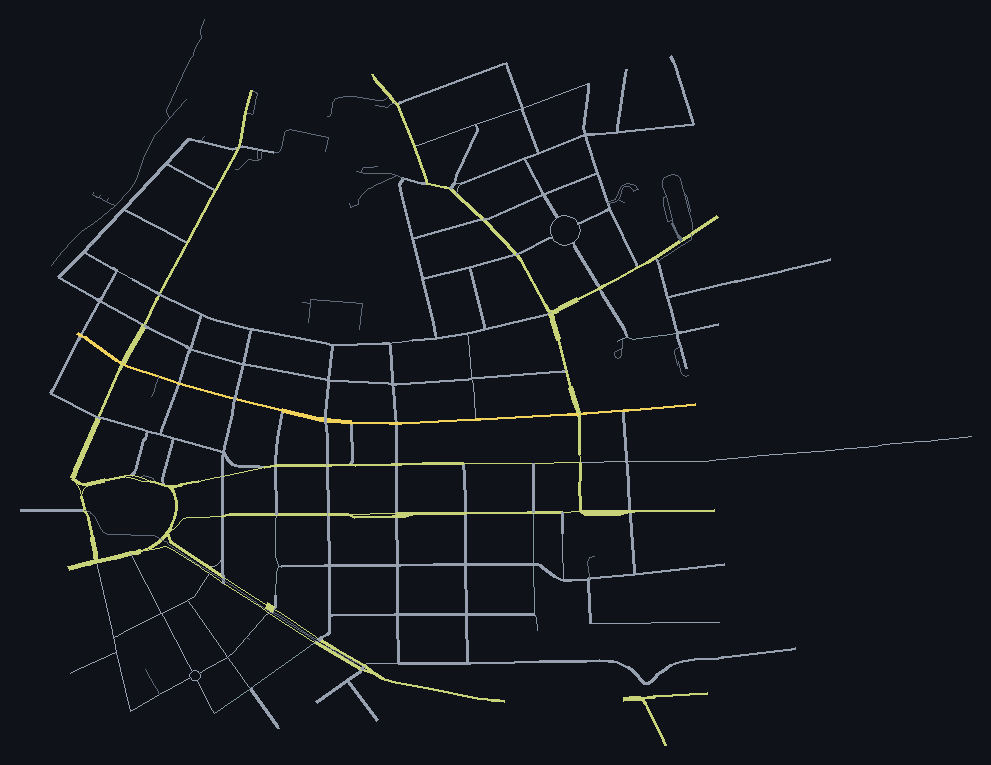
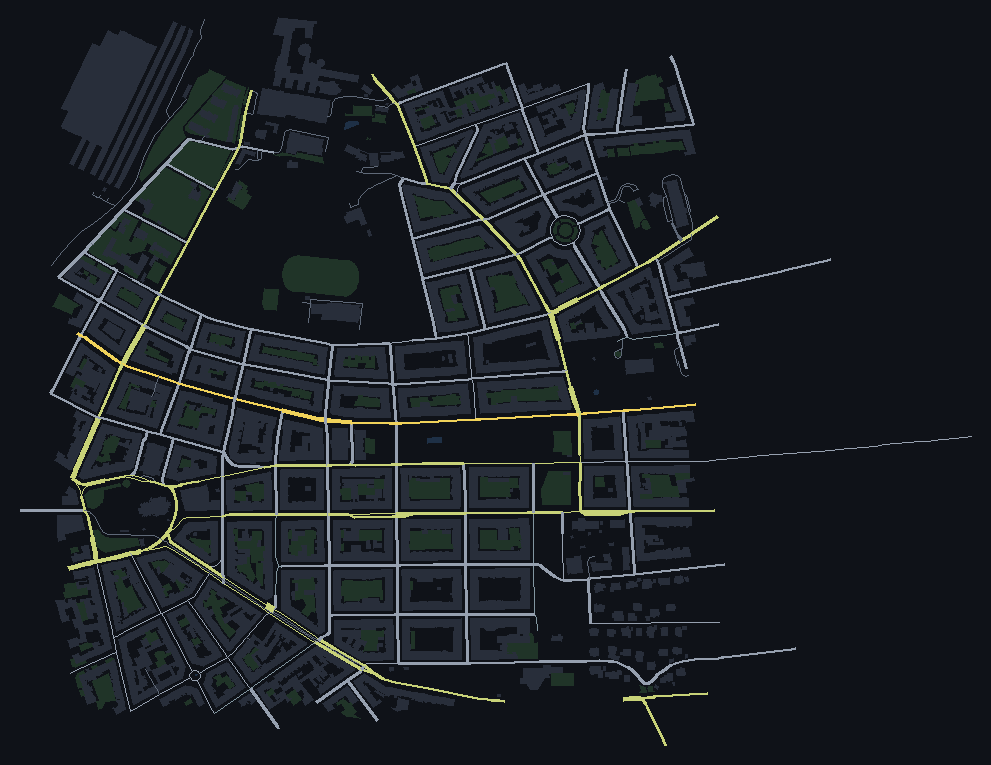
Schematic city backdrop: bake + render OSM buildings, greens, water
bake_city.py now fetches building footprints, parks/greens and water as closed ways,
simplifies and tiles them as area polygons (Vinohrady: 1621 buildings, 185 green,
4 water). The client loads + dedupes areas with a bbox and draws them behind the
roads (buildings #222734 w/ outline when zoomed, greens, water). Turns the abstract
road network into a recognisable real city (Vlad's spec item 5: 'схематичные здания').

Changed region(s): [[0.0605, 0.0, 0.7265, 0.932]]

diff --git a/app/static/drive/map/tiles.js b/app/static/drive/map/tiles.js
@@ -28,23 +28,33 @@ export async function loadMap(base) {
   const tiles = await Promise.all(
     meta.tiles.map((k) => fetch(`${base}/tiles/${k}.json`).then((r) => r.json()))
   );
-  const seen = new Set();
-  const edges = [], junctions = [];
+  const bbox = (pts) => {
+    let mnx = Infinity, mny = Infinity, mxx = -Infinity, mxy = -Infinity;
+    for (const p of pts) {
+      if (p[0] < mnx) mnx = p[0]; if (p[0] > mxx) mxx = p[0];
+      if (p[1] < mny) mny = p[1]; if (p[1] > mxy) mxy = p[1];
+    }
+    return [mnx, mny, mxx, mxy];
+  };
+
+  const seen = new Set(), seenA = new Set();
+  const edges = [], junctions = [], areas = [];
   for (const t of tiles) {
     for (const e of t.edges) {
       const sig = `${e.a}_${e.b}_${e.cls}_${e.geom.length}`;
       if (seen.has(sig)) continue;
       seen.add(sig);
-      // bounding box [minx,miny,maxx,maxy] for viewport culling (long sparse-vertex edges)
-      let mnx = Infinity, mny = Infinity, mxx = -Infinity, mxy = -Infinity;
-      for (const p of e.geom) {
-        if (p[0] < mnx) mnx = p[0]; if (p[0] > mxx) mxx = p[0];
-        if (p[1] < mny) mny = p[1]; if (p[1] > mxy) mxy = p[1];
-      }
-      e.bb = [mnx, mny, mxx, mxy];
+      e.bb = bbox(e.geom);   // [minx,miny,maxx,maxy] for viewport culling (long sparse-vertex edges)
       edges.push(e);
     }
     for (const j of t.junctions) junctions.push(j);
+    for (const a of t.areas || []) {     // schematic backdrop polygons (span tiles → dedupe)
+      const sig = `${a.kind}_${a.poly.length}_${a.poly[0][0]}_${a.poly[0][1]}`;
+      if (seenA.has(sig)) continue;
+      seenA.add(sig);
+      a.bb = bbox(a.poly);
+      areas.push(a);
+    }
   }
 
   // spatial grid: cell -> edge indices. Rasterize each SEGMENT into every cell it
@@ -96,5 +106,5 @@ export async function loadMap(base) {
     return false;
   }
 
-  return { meta, edges, junctions, nearestEdge, onSurface };
+  return { meta, edges, junctions, areas, nearestEdge, onSurface };
 }

diff --git a/app/static/drive/render/draw.js b/app/static/drive/render/draw.js
@@ -8,6 +8,9 @@ const CLASS_TINT = {
   motorway: "#48525f", trunk: "#444e5c", primary: "#3e4654",
   secondary: "#39414e", tertiary: "#343c48",
 };
+// schematic backdrop fills (drawn behind the roads)
+const AREA_FILL = { building: "#222734", green: "#1d2c22", water: "#1b2c41" };
+const AREA_STROKE = { building: "#2c3242", green: "#243a2c", water: "#234057" };
 
 function roundRect(ctx, x, y, w, h, r) {
   ctx.beginPath();
@@ -35,6 +38,9 @@ export function draw(ctx, view, map, car) {
 
   const R = view.visR();
   const vis = map.edges.filter((e) => view.boxVisible(e.bb));
+
+  // 0) schematic backdrop — buildings, greens, water (behind the roads)
+  drawAreas(ctx, view, map);
 
   // 1) asphalt (casing then surface)
   ctx.lineCap = "round"; ctx.lineJoin = "round";
@@ -81,6 +87,29 @@ export function draw(ctx, view, map, car) {
 // Label each visible street at the point ON the road nearest the car, so the name
 // actually sits in view as you drive (segment-midpoint placement fell off-screen on
 // long blocks). One label per name, closest instance wins.
+function drawAreas(ctx, view, map) {
+  const areas = map.areas;
+  if (!areas || !areas.length) return;
+  // group by kind so we batch fills (water/green under buildings)
+  for (const kind of ["water", "green", "building"]) {
+    ctx.fillStyle = AREA_FILL[kind];
+    ctx.strokeStyle = AREA_STROKE[kind];
+    ctx.lineWidth = 1;
+    const stroke = kind === "building" && view.zoom > 6;
+    for (const a of areas) {
+      if (a.kind !== kind || !view.boxVisible(a.bb)) continue;
+      ctx.beginPath();
+      for (let i = 0; i < a.poly.length; i++) {
+        const [X, Y] = view.project(a.poly[i][0], a.poly[i][1]);
+        i ? ctx.lineTo(X, Y) : ctx.moveTo(X, Y);
+      }
+      ctx.closePath();
+      ctx.fill();
+      if (stroke) ctx.stroke();   // crisp building outlines when zoomed in
+    }
+  }
+}
+
 function drawStreetLabels(ctx, view, vis) {
   const zoom = view.zoom;
   if (zoom < 8) return;                       // too zoomed out to be legible/useful

diff --git a/tools/bake_city.py b/tools/bake_city.py
@@ -52,10 +52,54 @@ def get(url: str, data: bytes | None = None) -> dict:
 
 def fetch_osm(bbox) -> dict:
     s, w, n, e = bbox
-    q = (f"[out:json][timeout:120];"
-         f'(way["highway"]({s},{w},{n},{e}););'
-         f"out body; >; out skel qt;")
+    bb = f"({s},{w},{n},{e})"
+    # drivable highways + schematic backdrop (building footprints, greens, water) as ways.
+    # Ways only (skip multipolygon relations) — keeps geometry assembly simple for the MVP.
+    q = (f"[out:json][timeout:180];("
+         f'way["highway"]{bb};'
+         f'way["building"]{bb};'
+         f'way["leisure"~"^(park|garden|playground|pitch|recreation_ground|dog_park)$"]{bb};'
+         f'way["landuse"~"^(grass|forest|meadow|village_green|cemetery|recreation_ground)$"]{bb};'
+         f'way["natural"="water"]{bb};'
+         f");out body; >; out skel qt;")
     return get(OVERPASS, data=q.encode("utf-8"))
+
+
+def classify_area(tags: dict) -> str | None:
+    """Map an OSM closed way to a schematic backdrop kind, or None if not backdrop."""
+    if tags.get("building"):
+        return "building"
+    if tags.get("natural") == "water":
+        return "water"
+    if tags.get("leisure") in ("park", "garden", "playground", "pitch", "recreation_ground", "dog_park"):
+        return "green"
+    if tags.get("landuse") in ("grass", "forest", "meadow", "village_green", "cemetery", "recreation_ground"):
+        return "green"
+    return None
+
+
+def build_areas(osm_ways, nodes, to_xy) -> list[dict]:
+    """Closed backdrop ways → projected polygons {kind, poly}, lightly simplified."""
+    areas = []
+    for wy in osm_ways:
+        kind = classify_area(wy.get("tags", {}))
+        if not kind:
+            continue
+        nl = wy["nodes"]
+        if len(nl) < 4 or nl[0] != nl[-1]:   # need a closed ring
+            continue
+        pts = [to_xy(nodes[x]["lat"], nodes[x]["lon"]) for x in nl if x in nodes]
+        if len(pts) < 4:
+            continue
+        # drop vertices closer than ~1.2 m to the previous one (schematic; shrinks payload)
+        poly = [pts[0]]
+        for p in pts[1:]:
+            if math.hypot(p[0] - poly[-1][0], p[1] - poly[-1][1]) >= 1.2:
+                poly.append(p)
+        if len(poly) < 3:
+            continue
+        areas.append({"kind": kind, "poly": [[round(x, 1), round(y, 1)] for x, y in poly]})
+    return areas
 
 
 # --- projection: local equirectangular metres about bbox centre ---
@@ -95,8 +139,12 @@ def bake(district: str, country: str, debug_only: bool):
     print(f"[{district}] fetching OSM…")
     osm = fetch_osm(bbox)
     nodes = {el["id"]: el for el in osm["elements"] if el["type"] == "node"}
-    ways = [el for el in osm["elements"] if el["type"] == "way" and el.get("tags", {}).get("highway") in classes]
-    print(f"  drivable ways: {len(ways)}  nodes: {len(nodes)}")
+    all_ways = [el for el in osm["elements"] if el["type"] == "way"]
+    ways = [w for w in all_ways if w.get("tags", {}).get("highway") in classes]
+    areas = build_areas(all_ways, nodes, to_xy)
+    akinds = Counter(a["kind"] for a in areas)
+    print(f"  drivable ways: {len(ways)}  nodes: {len(nodes)}  "
+          f"backdrop: {akinds.get('building',0)} buildings, {akinds.get('green',0)} green, {akinds.get('water',0)} water")
 
     # junction detection: nodes shared by >=2 drivable ways, plus way endpoints, plus tagged control
     node_ways = Counter()
@@ -168,13 +216,13 @@ def bake(district: str, country: str, debug_only: bool):
 
     out = ROOT / "data" / "cities" / country / "praha" / district
     out.mkdir(parents=True, exist_ok=True)
-    _debug_png(edges, bounds, out / "debug.png")
+    _debug_png(edges, areas, bounds, out / "debug.png")
     if debug_only:
         print(f"[{district}] debug-only → {out/'debug.png'}")
         return
 
     # tile by grid
-    tiles = defaultdict(lambda: {"edges": [], "junctions": []})
+    tiles = defaultdict(lambda: {"edges": [], "junctions": [], "areas": []})
     for ed in edges:
         keys = {(int(p[0] // TILE_M), int(p[1] // TILE_M)) for p in ed["geom"]}
         for k in keys:
@@ -182,6 +230,10 @@ def bake(district: str, country: str, debug_only: bool):
     for jc in junctions:
         k = f"{int(jc['x']//TILE_M)}_{int(jc['y']//TILE_M)}"
         tiles[k]["junctions"].append(jc)
+    for ar in areas:
+        keys = {(int(p[0] // TILE_M), int(p[1] // TILE_M)) for p in ar["poly"]}
+        for k in keys:
+            tiles[f"{k[0]}_{k[1]}"]["areas"].append(ar)
 
     tdir = out / "tiles"
     tdir.mkdir(exist_ok=True)
@@ -192,14 +244,18 @@ def bake(district: str, country: str, debug_only: bool):
         "country": country, "city": "praha", "district": district,
         "bbox": bbox, "proj": proj, "tile_m": TILE_M, "bounds": bounds,
         "tiles": sorted(tiles.keys()), "n_edges": len(edges), "n_junctions": len(junctions),
-        "version": 1, "profile": country,
+        "n_areas": len(areas), "version": 2, "profile": country,
         "attribution": "© OpenStreetMap contributors (ODbL)",
     }
     (out / "meta.json").write_text(json.dumps(meta, ensure_ascii=False, indent=1), encoding="utf-8")
-    print(f"[{district}] baked → {out}  ({len(tiles)} tiles, {len(edges)} edges, {len(junctions)} junctions)")
+    print(f"[{district}] baked → {out}  ({len(tiles)} tiles, {len(edges)} edges, "
+          f"{len(junctions)} junctions, {len(areas)} areas)")
 
 
-def _debug_png(edges, bounds, path, scale=0.5):
+AREA_FILL = {"building": (40, 46, 58), "green": (32, 52, 40), "water": (30, 48, 70)}  # debug PNG
+
+
+def _debug_png(edges, areas, bounds, path, scale=0.5):
     if not bounds:
         print("  no geometry to draw"); return
     W = int((bounds["maxx"] - bounds["minx"]) * scale) + 40
@@ -208,6 +264,8 @@ def _debug_png(edges, bounds, path, scale=0.5):
     d = ImageDraw.Draw(img)
     def px(p):
         return (20 + (p[0] - bounds["minx"]) * scale, H - 20 - (p[1] - bounds["miny"]) * scale)  # flip y
+    for ar in areas:  # backdrop behind roads
+        d.polygon([px(p) for p in ar["poly"]], fill=AREA_FILL.get(ar["kind"], (40, 46, 58)))
     for ed in edges:
         col = CLASS_COLOR.get(ed["cls"], (120, 130, 145))
         wpx = max(1, int(ed["width"] * scale))